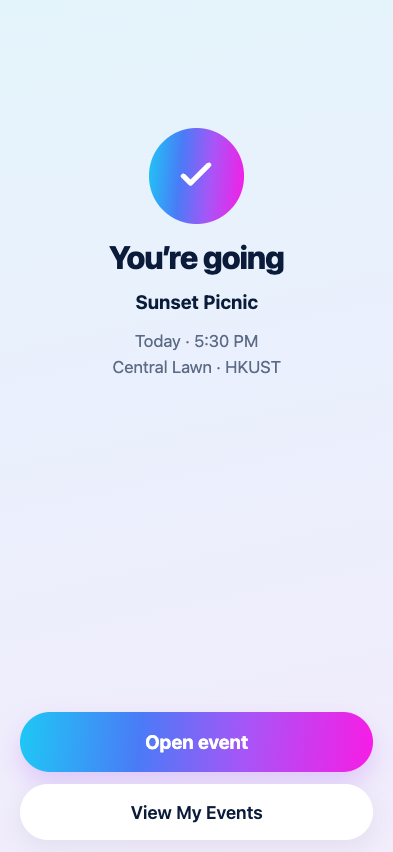
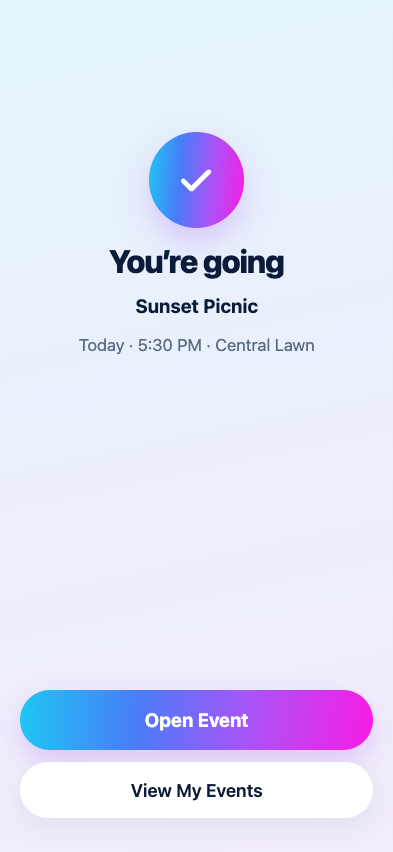
fix(events): align attendance success with source layout

Changed region(s): [[0.0305, 0.7934, 0.9466, 0.9765], [0.2137, 0.1526, 0.7939, 0.4577], [0.3664, 0.1831, 0.3969, 0.2441]]

diff --git a/src/pages/events/join-success.vue b/src/pages/events/join-success.vue
@@ -3,7 +3,7 @@ import { ref } from 'vue'
 import { use_event_page } from '@/composables/useEventPage.js'
 import { previous_event_is_detail } from '@/utils/eventsNavigation.js'
 import SecondaryPageFrame from '@/components/SecondaryPageFrame.vue'
-import SourceIcon from '@/components/SourceIcon.vue'
+import ConnectionIcon from '@/components/ConnectionIcon.vue'
 const frame = ref(null)
 const { event, event_id, error, access_error, go, back } = use_event_page(frame, { joinedOnly: true })
 const open_event = () => previous_event_is_detail(event_id.value) ? back() : go('detail', event_id.value, true)
@@ -12,12 +12,18 @@ const open_event = () => previous_event_is_detail(event_id.value) ? back() : go(
   <SecondaryPageFrame ref="frame" class="event-page event-success-page">
     <view v-if="access_error" class="event-page-state" role="alert">{{ access_error }}</view>
     <view v-else class="event-success-content">
-      <view class="event-success-icon"><SourceIcon name="check" :stroke-width="2.8" /></view>
-      <text class="event-page-title">You’re going</text><text class="event-success-name">{{ event.title }}</text><text class="event-success-description">{{ event.date_label }}<br />{{ event.location }} · {{ event.university }}</text>
+      <view class="event-success-icon"><ConnectionIcon name="sent" /></view>
+      <text class="event-page-title">You’re going</text><text class="event-success-name">{{ event.title }}</text><text class="event-success-description">{{ event.date_label }} · {{ event.location }}</text>
     </view>
     <template #footer><text v-if="error" class="event-page-error" role="alert">{{ error }}</text><view class="event-page-footer">
       <view v-if="access_error" class="event-page-secondary" role="button" tabindex="0" @click="back()" @keydown.enter="back()">Back to events</view>
-      <template v-else><view class="event-page-primary" role="button" tabindex="0" data-interaction="evJoinSuccess.openJoined.click.1" @click="open_event" @keydown.enter="open_event">Open event</view><view class="event-page-secondary" role="button" tabindex="0" data-interaction="evJoinSuccess.openMyEvents.click.1" @click="go('upcoming', event_id, true)" @keydown.enter="go('upcoming', event_id, true)">View My Events</view></template>
+      <template v-else><view class="event-page-primary" role="button" tabindex="0" data-interaction="evJoinSuccess.openJoined.click.1" @click="open_event" @keydown.enter="open_event">Open Event</view><view class="event-page-secondary" role="button" tabindex="0" data-interaction="evJoinSuccess.openMyEvents.click.1" @click="go('upcoming', event_id, true)" @keydown.enter="go('upcoming', event_id, true)">View My Events</view></template>
     </view></template>
   </SecondaryPageFrame>
 </template>
+
+<style scoped>
+.event-success-content { padding-top: 251.908rpx; }
+.event-success-icon { box-shadow: var(--cimoa-shadow-verification-success); }
+.event-page-footer { padding-bottom: 64.885rpx; }
+</style>

diff --git a/docs/ui-restoration/event-success/difference-audit.md b/docs/ui-restoration/event-success/difference-audit.md
@@ -1,0 +1,7 @@
+# event-success 差异审计
+
+来源、完整样式/文案/SVG 与 interaction IDs 见 source-contract.json。模块逐项发现与处理见 ../events/source-contract.md。
+
+- 原型UI为来源；现有 Vue 页面不是来源证据。
+- 真实账号、报名、人数、关系及消息均读取统一 Store；不照搬虚构原型人数/聊天状态。
+- 本轮先校正已明确差异并执行功能回归。原型独立 reference/overlay/diff 尚未完成，因此视觉与完整验收保持 pending，不标 verified。
